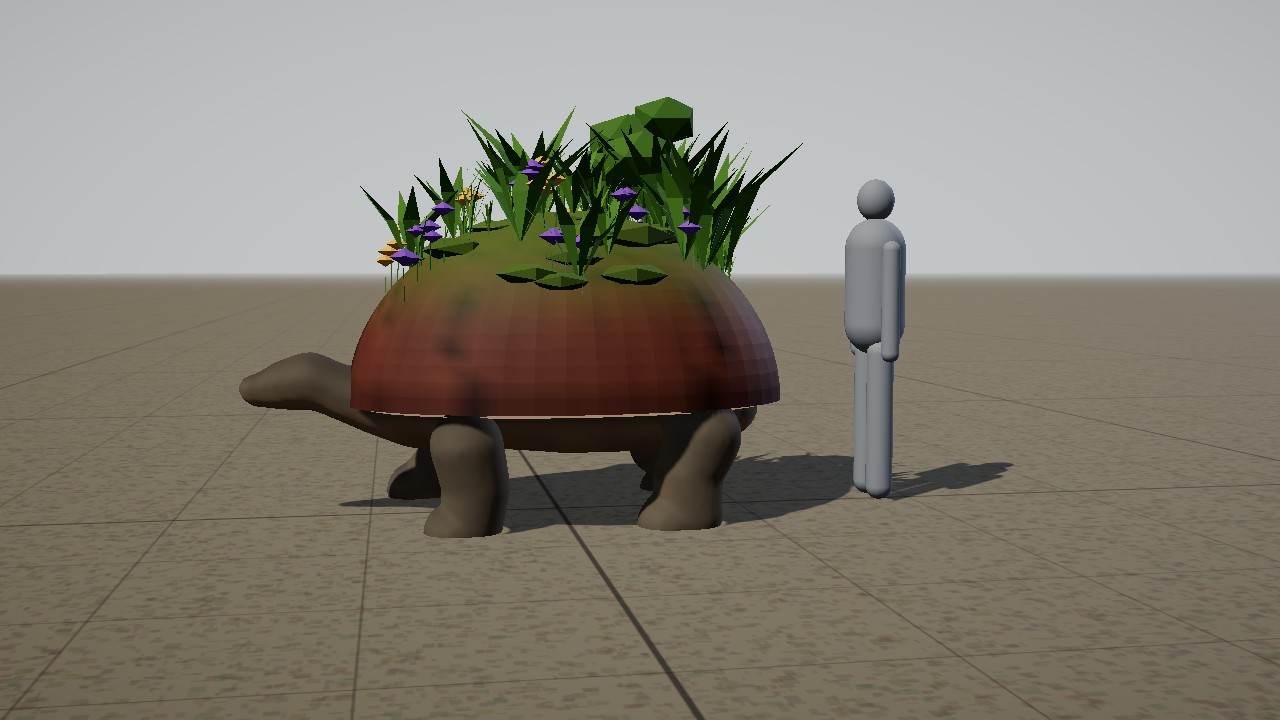
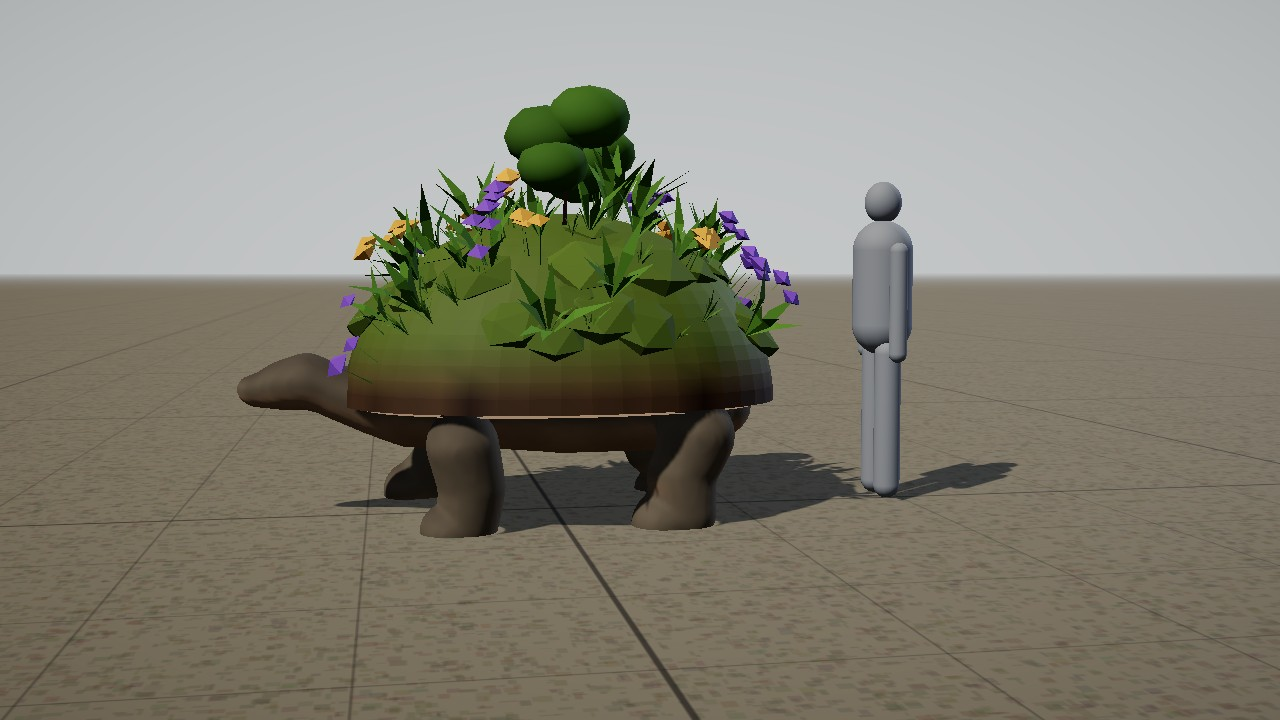
Bodies: Session 1926 — the Mossback's moss draped to the rim (the critic, 6 Nov; OG-040)
Claude-Session: https://claude.ai/code/session_019eFMMod6aV7gdqFC3L4u1c

diff --git a/docs/prototypes/levelup/creatures.js b/docs/prototypes/levelup/creatures.js
@@ -338,7 +338,8 @@ P.radial = (B, o) => { const c = V(...o.c), parent = o.parent || B.spineNames[0]
     else for (let j = 0; j < seg; j++) B.meat(names[j], pts[j], pts[j + 1], along(o.r, j / seg), along(o.r, (j + 1) / seg), { group: tag, tone: o.tone, s: o.s });
     B.radials.push({ names, a, thread: !!o.thread, k, n: o.n }); } };
 // a shell (Session 775): a rigid dome over the spine with a rim and a flat plastron. Its scutes are cells of a hexagonal
-// lattice seen from above, their seams darkened; a garden may grow on it (the Mossback), or a sail stand on it (the Sailshell)
+// lattice seen from above, their seams darkened; a garden may grow on it (the Mossback), or a sail stand on it (the Sailshell).
+// `top` tints it from `topFrom` of its height, full by `topTo` (Session 1926; .95 unless a plan names it)
 P.shell = (B, o) => { const sp = B.spineAt(o.at), c = sp.p.clone().add(V(0, o.lift || 0, o.dz || 0)), rx = o.w / 2, rz = o.len / 2, base = B.tone(o.tone || 'shell'), seam = B.tone('seam'), r = rng(B.g.seed + 9);
   const g = new THREE.SphereGeometry(1, 48, 20, 0, Math.PI * 2, 0, Math.PI / 2); g.scale(rx, o.h, rz);
   const lat = []; const s = o.scute || rx * .5; for (let i = -6; i <= 6; i++) for (let j = -6; j <= 6; j++) lat.push([(i + (j % 2 ? .5 : 0)) * s, j * s * .87]);
@@ -346,7 +347,7 @@ P.shell = (B, o) => { const sp = B.spineAt(o.at), c = sp.p.clone().add(V(0, o.li
   for (let v = 0; v < P0.count; v++) { const x = P0.getX(v), y = P0.getY(v), z = P0.getZ(v); let d1 = 1e9, d2 = 1e9, k1 = 0;
     for (let k = 0; k < lat.length; k++) { const d = Math.hypot(x - lat[k][0], z - lat[k][1]); if (d < d1) { d2 = d1; d1 = d; k1 = k; } else if (d < d2) d2 = d; }
     const edge = sstep(s * .12, 0, d2 - d1), ring = .9 + .1 * Math.cos(d1 / s * 14), C = base.clone().multiplyScalar(ring * (.88 + .24 * ((k1 * 2654435761) % 97) / 97)).lerp(seam, edge * .85);
-    if (o.top) C.lerp(B.tone(o.top), sstep(o.topFrom ?? .55, .95, y / o.h) * .9); if (y < o.h * .12) C.lerp(seam, .35); col.push(C.r, C.g, C.b); }
+    if (o.top) C.lerp(B.tone(o.top), sstep(o.topFrom ?? .55, o.topTo ?? .95, y / o.h) * .9); if (y < o.h * .12) C.lerp(seam, .35); col.push(C.r, C.g, C.b); }
   g.setAttribute('color', new THREE.Float32BufferAttribute(col, 3));
   const plast = new THREE.CircleGeometry(1, 40); plast.rotateX(Math.PI / 2); plast.scale(rx * .9, 1, rz * .92); plast.translate(0, -o.h * .02, 0); const pc = []; for (let v = 0; v < plast.attributes.position.count; v++) pc.push(...B.tone('belly').toArray()); plast.setAttribute('color', new THREE.Float32BufferAttribute(pc, 3));
   const m = new THREE.Mesh(mergeGeometries([g.toNonIndexed(), plast.toNonIndexed()]), new THREE.MeshStandardMaterial({ vertexColors: true, roughness: o.rough ?? .7, side: THREE.DoubleSide })); m.geometry.computeVertexNormals(); m.position.copy(c); B.bit(sp.bone, m);
@@ -357,17 +358,24 @@ P.shell = (B, o) => { const sp = B.spineAt(o.at), c = sp.p.clone().add(V(0, o.li
   // these keeps the old spread (.62 and .7), no mounds or grass, one flower to a spot and heads of .07
   if (o.garden) { const G = o.garden, sz = G.size, geos = [], sp1 = G.spread || .62, sp2 = G.spread || .7, cl = G.cluster || 1, bl = G.bloom || .07;
     const yAt = (x, z) => o.h * Math.sqrt(Math.max(0, 1 - (x / rx) ** 2 - (z / rz) ** 2));
-    const add = (geo, color, x, z, rot, sink = .01) => { geo.deleteAttribute('uv'); geo.rotateY(rot); geo.translate(x, yAt(x, z) - sink, z); const cc = []; for (let v = 0; v < geo.attributes.position.count; v++) cc.push(color.r, color.g, color.b); geo.setAttribute('color', new THREE.Float32BufferAttribute(cc, 3)); geos.push(geo.index ? geo.toNonIndexed() : geo); };
-    const spot = f => { const a = r() * Math.PI * 2, d = Math.sqrt(r()) * f; return [Math.cos(a) * d * rx, Math.sin(a) * d * rz]; };
+    // Session 1926 (the critic, 6 Nov: "a crest, not a garden", every plant on the top third and the flanks bare to a clean rim; OG-040
+    // drapes the moss to the rim): `drape` stands each plant on the dome's own slope, turned from straight up toward the surface's normal
+    // by that share, so a fern on the flank lies along it as moss and ferns do on a stone; `edge` (a power under .5) puts more of the
+    // spots out on the flanks, where most of the dome's area is; `low` scales the ferns' and the grass's height (the art's are low)
+    const dr = G.drape || 0, ex = G.edge || .5, lo = G.low || 1, nq = new THREE.Quaternion();
+    const add = (geo, color, x, z, rot, sink = .01) => { geo.deleteAttribute('uv'); geo.rotateY(rot);
+      if (dr) { const y = yAt(x, z), n = V(x / (rx * rx), y / (o.h * o.h), z / (rz * rz)).normalize(); nq.setFromUnitVectors(UP, UP.clone().lerp(n, dr).normalize()); geo.applyQuaternion(nq); }
+      geo.translate(x, yAt(x, z) - sink, z); const cc = []; for (let v = 0; v < geo.attributes.position.count; v++) cc.push(color.r, color.g, color.b); geo.setAttribute('color', new THREE.Float32BufferAttribute(cc, 3)); geos.push(geo.index ? geo.toNonIndexed() : geo); };
+    const spot = f => { const a = r() * Math.PI * 2, d = Math.pow(r(), ex) * f; return [Math.cos(a) * d * rx, Math.sin(a) * d * rz]; };
     const tris = pts => { const g = new THREE.BufferGeometry(); g.setAttribute('position', new THREE.Float32BufferAttribute(pts.flat(), 3)); g.computeVertexNormals(); return g; };
     // a blade leaning out by `lean`, `w` wide at two-thirds of its height: base, the two shoulders, the tip
     const blade = (h, w, lean) => { const L = [-w, h * .6, h * .3 * lean], R = [w, h * .6, h * .3 * lean], T = [0, h, h * .75 * lean]; return tris([[0, 0, 0], R, L, L, R, T]); };
-    for (let i = 0; i < (G.moss || 0); i++) { const [x, z] = spot(.82), m = sz * (.3 + .3 * r()), mg = new THREE.IcosahedronGeometry(1, 0); mg.scale(m, m * .32, m * (.8 + .4 * r())); add(mg, B.tone('moss').clone().multiplyScalar(.82 + .3 * r()), x, z, r() * 6, m * .2); }
-    for (let i = 0; i < G.ferns; i++) { const [x, z] = spot(sp1), h = sz * (.6 + .6 * r()), n = 5 + (i % 3); for (let f = 0; f < n; f++) add(blade(h * (.75 + .35 * r()), h * .09, .5 + .7 * r()), B.tone('fern').clone().multiplyScalar(.8 + .4 * r()), x, z, f / n * Math.PI * 2 + r()); }
-    for (let i = 0; i < (G.grass || 0); i++) { const [x, z] = spot(.8), h = sz * (.3 + .3 * r()); for (let f = 0; f < 7; f++) add(blade(h * (.7 + .5 * r()), h * .035, .2 + .5 * r()), B.tone('fern').clone().multiplyScalar(1.05 + .35 * r()).lerp(B.tone('moss'), .3), x, z, r() * Math.PI * 2); }
+    for (let i = 0; i < (G.moss || 0); i++) { const [x, z] = spot(dr ? .96 : .82), m = sz * (.3 + .3 * r()), mg = new THREE.IcosahedronGeometry(1, 0); mg.scale(m, m * .32, m * (.8 + .4 * r())); add(mg, B.tone('moss').clone().multiplyScalar(.82 + .3 * r()), x, z, r() * 6, m * .2); }
+    for (let i = 0; i < G.ferns; i++) { const [x, z] = spot(sp1), h = sz * lo * (.6 + .6 * r()), n = 5 + (i % 3); for (let f = 0; f < n; f++) add(blade(h * (.75 + .35 * r()), h * .09, .5 + .7 * r()), B.tone('fern').clone().multiplyScalar(.8 + .4 * r()), x, z, f / n * Math.PI * 2 + r()); }
+    for (let i = 0; i < (G.grass || 0); i++) { const [x, z] = spot(dr ? sp1 : .8), h = sz * lo * (.3 + .3 * r()); for (let f = 0; f < 7; f++) add(blade(h * (.7 + .5 * r()), h * .035, .2 + .5 * r()), B.tone('fern').clone().multiplyScalar(1.05 + .35 * r()).lerp(B.tone('moss'), .3), x, z, r() * Math.PI * 2); }
     // `shrubs` (Session 1920): a low bush of three leafy lumps on a short stem, the garden's tallest things
     for (let i = 0; i < (G.shrubs || 0); i++) { const [x, z] = spot(.45), h = sz * (.9 + .4 * r()); add(tris([[-.012, 0, 0], [.012, 0, 0], [0, h * .7, 0]]), B.tone('seam'), x, z, r() * 6);
-      for (let k = 0; k < 3; k++) { const b = sz * (.32 + .14 * r()), lg = new THREE.IcosahedronGeometry(b, 0), a = k / 3 * Math.PI * 2 + r(); lg.scale(1, .75, 1); lg.translate(Math.cos(a) * b * .6, h * (.62 + .2 * k), Math.sin(a) * b * .6); add(lg, B.tone('fern').clone().multiplyScalar(.62 + .25 * r()), x, z, 0); } }
+      for (let k = 0; k < 3; k++) { const b = sz * (.32 + .14 * r()), lg = new THREE.IcosahedronGeometry(b, dr ? 1 : 0), a = k / 3 * Math.PI * 2 + r(); lg.scale(1, .75, 1); lg.translate(Math.cos(a) * b * .6, h * (.62 + .2 * k), Math.sin(a) * b * .6); add(lg, B.tone('fern').clone().multiplyScalar(.62 + .25 * r()), x, z, 0); } }
     for (let i = 0; i < G.flowers; i++) { const [x0, z0] = spot(sp2), tone = B.tone(r() < .5 ? 'bloom' : 'bloom2');
       for (let k = 0; k < cl; k++) { const x = x0 + (k ? (r() - .5) * sz * .3 : 0), z = z0 + (k ? (r() - .5) * sz * .3 : 0), hs = sz * (.36 + .2 * r()), lean = (r() - .5) * sz * .1;
         add(tris([[-.004, 0, 0], [.004, 0, 0], [lean, hs, 0]]), B.tone('fern'), x, z, r() * 6);
@@ -1430,7 +1438,7 @@ export const PLANS = {
     ] },
   // ── Session 775: shells and feathered wings ──
   mossback: { name: 'Mossback', src: 'OG-040 (an ancient tortoise carrying a living garden)', gaits: ['walk', 'stand'], speedK: .22, wag: .02, pant: .02, fold: .4, rough: .8,
-    palette: { coat: [.42, .4, .32], saddle: [.32, .3, .24], belly: [.62, .56, .42], dark: [.06, .05, .04], shell: [.44, .31, .18], seam: [.17, .11, .06], moss: [.3, .43, .16], fern: [.26, .5, .18], bloom: [.88, .76, .3], bloom2: [.62, .36, .78] },
+    palette: { coat: [.42, .4, .32], saddle: [.32, .3, .24], belly: [.62, .56, .42], dark: [.06, .05, .04], shell: [.38, .32, .19], seam: [.17, .11, .06], moss: [.3, .43, .16], fern: [.26, .5, .18], bloom: [.88, .76, .3], bloom2: [.62, .36, .78] },
     parts: null },
   sailshell: { name: 'Sailshell', src: 'OG-040 (a desert tortoise with a sail-like shell)', gaits: ['walk', 'stand'], speedK: .25, wag: .02, pant: .02, fold: .4, rough: .7, finOpacity: 1,
     palette: { coat: [.62, .5, .36], saddle: [.48, .37, .25], belly: [.8, .7, .52], dark: [.08, .06, .04], shell: [.76, .58, .34], seam: [.34, .21, .1], sail: [.8, .3, .15], sail2: [.93, .56, .25] },
@@ -1453,7 +1461,8 @@ const tortoise = shell => [
   ['legs', { at: .95, kind: 'plantFore', out: .55, drop: .15, r: [.17, .16, .15, .15], claws: { r: .02, len: .05 } }],
   ['legs', { at: .05, kind: 'plantHind', out: .55, drop: .1, r: [.19, .17, .16, .16], claws: { r: .02, len: .05 } }],
   ['shell', shell]];
-PLANS.mossback.parts = tortoise({ at: .5, lift: .02, len: 2.3, w: 1.75, h: 1.0, top: 'moss', topFrom: .3, garden: { ferns: 34, flowers: 22, cluster: 3, bloom: .13, grass: 26, moss: 18, shrubs: 2, spread: .8, size: .5 } });
+// Session 1926: the moss runs from .04 of the dome's height (was .3) and is full by .4 (was .95), the shrubs' lumps rounder, the mounds and the plants out to the rim, laid along the slope
+PLANS.mossback.parts = tortoise({ at: .5, lift: .02, len: 2.3, w: 1.75, h: 1.0, top: 'moss', topFrom: .04, topTo: .4, garden: { ferns: 34, flowers: 22, cluster: 3, bloom: .13, grass: 30, moss: 34, shrubs: 2, spread: .94, size: .5, drape: .75, edge: .32, low: .7 } });
 PLANS.sailshell.parts = tortoise({ at: .5, lift: .02, len: 2.0, w: 1.5, h: .8, sail: { h: 1.3, len: 1.8 } });
 // a bird of the air: a perching body on bird legs, a fanned tail and feathered wings; a raven and a hawk differ in beak and colour
 const flier = o => [

diff --git a/vendor/creatures.builder.js b/vendor/creatures.builder.js
@@ -1768,7 +1768,8 @@ P.radial = (B, o) => { const c = V(...o.c), parent = o.parent || B.spineNames[0]
     else for (let j = 0; j < seg; j++) B.meat(names[j], pts[j], pts[j + 1], along(o.r, j / seg), along(o.r, (j + 1) / seg), { group: tag, tone: o.tone, s: o.s });
     B.radials.push({ names, a, thread: !!o.thread, k, n: o.n }); } };
 // a shell (Session 775): a rigid dome over the spine with a rim and a flat plastron. Its scutes are cells of a hexagonal
-// lattice seen from above, their seams darkened; a garden may grow on it (the Mossback), or a sail stand on it (the Sailshell)
+// lattice seen from above, their seams darkened; a garden may grow on it (the Mossback), or a sail stand on it (the Sailshell).
+// `top` tints it from `topFrom` of its height, full by `topTo` (Session 1926; .95 unless a plan names it)
 P.shell = (B, o) => { const sp = B.spineAt(o.at), c = sp.p.clone().add(V(0, o.lift || 0, o.dz || 0)), rx = o.w / 2, rz = o.len / 2, base = B.tone(o.tone || 'shell'), seam = B.tone('seam'), r = rng(B.g.seed + 9);
   const g = new THREE.SphereGeometry(1, 48, 20, 0, Math.PI * 2, 0, Math.PI / 2); g.scale(rx, o.h, rz);
   const lat = []; const s = o.scute || rx * .5; for (let i = -6; i <= 6; i++) for (let j = -6; j <= 6; j++) lat.push([(i + (j % 2 ? .5 : 0)) * s, j * s * .87]);
@@ -1776,7 +1777,7 @@ P.shell = (B, o) => { const sp = B.spineAt(o.at), c = sp.p.clone().add(V(0, o.li
   for (let v = 0; v < P0.count; v++) { const x = P0.getX(v), y = P0.getY(v), z = P0.getZ(v); let d1 = 1e9, d2 = 1e9, k1 = 0;
     for (let k = 0; k < lat.length; k++) { const d = Math.hypot(x - lat[k][0], z - lat[k][1]); if (d < d1) { d2 = d1; d1 = d; k1 = k; } else if (d < d2) d2 = d; }
     const edge = sstep(s * .12, 0, d2 - d1), ring = .9 + .1 * Math.cos(d1 / s * 14), C = base.clone().multiplyScalar(ring * (.88 + .24 * ((k1 * 2654435761) % 97) / 97)).lerp(seam, edge * .85);
-    if (o.top) C.lerp(B.tone(o.top), sstep(o.topFrom ?? .55, .95, y / o.h) * .9); if (y < o.h * .12) C.lerp(seam, .35); col.push(C.r, C.g, C.b); }
+    if (o.top) C.lerp(B.tone(o.top), sstep(o.topFrom ?? .55, o.topTo ?? .95, y / o.h) * .9); if (y < o.h * .12) C.lerp(seam, .35); col.push(C.r, C.g, C.b); }
   g.setAttribute('color', new THREE.Float32BufferAttribute(col, 3));
   const plast = new THREE.CircleGeometry(1, 40); plast.rotateX(Math.PI / 2); plast.scale(rx * .9, 1, rz * .92); plast.translate(0, -o.h * .02, 0); const pc = []; for (let v = 0; v < plast.attributes.position.count; v++) pc.push(...B.tone('belly').toArray()); plast.setAttribute('color', new THREE.Float32BufferAttribute(pc, 3));
   const m = new THREE.Mesh(mergeGeometries([g.toNonIndexed(), plast.toNonIndexed()]), new THREE.MeshStandardMaterial({ vertexColors: true, roughness: o.rough ?? .7, side: THREE.DoubleSide })); m.geometry.computeVertexNormals(); m.position.copy(c); B.bit(sp.bone, m);
@@ -1787,17 +1788,24 @@ P.shell = (B, o) => { const sp = B.spineAt(o.at), c = sp.p.clone().add(V(0, o.li
   // these keeps the old spread (.62 and .7), no mounds or grass, one flower to a spot and heads of .07
   if (o.garden) { const G = o.garden, sz = G.size, geos = [], sp1 = G.spread || .62, sp2 = G.spread || .7, cl = G.cluster || 1, bl = G.bloom || .07;
     const yAt = (x, z) => o.h * Math.sqrt(Math.max(0, 1 - (x / rx) ** 2 - (z / rz) ** 2));
-    const add = (geo, color, x, z, rot, sink = .01) => { geo.deleteAttribute('uv'); geo.rotateY(rot); geo.translate(x, yAt(x, z) - sink, z); const cc = []; for (let v = 0; v < geo.attributes.position.count; v++) cc.push(color.r, color.g, color.b); geo.setAttribute('color', new THREE.Float32BufferAttribute(cc, 3)); geos.push(geo.index ? geo.toNonIndexed() : geo); };
-    const spot = f => { const a = r() * Math.PI * 2, d = Math.sqrt(r()) * f; return [Math.cos(a) * d * rx, Math.sin(a) * d * rz]; };
+    // Session 1926 (the critic, 6 Nov: "a crest, not a garden", every plant on the top third and the flanks bare to a clean rim; OG-040
+    // drapes the moss to the rim): `drape` stands each plant on the dome's own slope, turned from straight up toward the surface's normal
+    // by that share, so a fern on the flank lies along it as moss and ferns do on a stone; `edge` (a power under .5) puts more of the
+    // spots out on the flanks, where most of the dome's area is; `low` scales the ferns' and the grass's height (the art's are low)
+    const dr = G.drape || 0, ex = G.edge || .5, lo = G.low || 1, nq = new THREE.Quaternion();
+    const add = (geo, color, x, z, rot, sink = .01) => { geo.deleteAttribute('uv'); geo.rotateY(rot);
+      if (dr) { const y = yAt(x, z), n = V(x / (rx * rx), y / (o.h * o.h), z / (rz * rz)).normalize(); nq.setFromUnitVectors(UP, UP.clone().lerp(n, dr).normalize()); geo.applyQuaternion(nq); }
+      geo.translate(x, yAt(x, z) - sink, z); const cc = []; for (let v = 0; v < geo.attributes.position.count; v++) cc.push(color.r, color.g, color.b); geo.setAttribute('color', new THREE.Float32BufferAttribute(cc, 3)); geos.push(geo.index ? geo.toNonIndexed() : geo); };
+    const spot = f => { const a = r() * Math.PI * 2, d = Math.pow(r(), ex) * f; return [Math.cos(a) * d * rx, Math.sin(a) * d * rz]; };
     const tris = pts => { const g = new THREE.BufferGeometry(); g.setAttribute('position', new THREE.Float32BufferAttribute(pts.flat(), 3)); g.computeVertexNormals(); return g; };
     // a blade leaning out by `lean`, `w` wide at two-thirds of its height: base, the two shoulders, the tip
     const blade = (h, w, lean) => { const L = [-w, h * .6, h * .3 * lean], R = [w, h * .6, h * .3 * lean], T = [0, h, h * .75 * lean]; return tris([[0, 0, 0], R, L, L, R, T]); };
-    for (let i = 0; i < (G.moss || 0); i++) { const [x, z] = spot(.82), m = sz * (.3 + .3 * r()), mg = new THREE.IcosahedronGeometry(1, 0); mg.scale(m, m * .32, m * (.8 + .4 * r())); add(mg, B.tone('moss').clone().multiplyScalar(.82 + .3 * r()), x, z, r() * 6, m * .2); }
-    for (let i = 0; i < G.ferns; i++) { const [x, z] = spot(sp1), h = sz * (.6 + .6 * r()), n = 5 + (i % 3); for (let f = 0; f < n; f++) add(blade(h * (.75 + .35 * r()), h * .09, .5 + .7 * r()), B.tone('fern').clone().multiplyScalar(.8 + .4 * r()), x, z, f / n * Math.PI * 2 + r()); }
-    for (let i = 0; i < (G.grass || 0); i++) { const [x, z] = spot(.8), h = sz * (.3 + .3 * r()); for (let f = 0; f < 7; f++) add(blade(h * (.7 + .5 * r()), h * .035, .2 + .5 * r()), B.tone('fern').clone().multiplyScalar(1.05 + .35 * r()).lerp(B.tone('moss'), .3), x, z, r() * Math.PI * 2); }
+    for (let i = 0; i < (G.moss || 0); i++) { const [x, z] = spot(dr ? .96 : .82), m = sz * (.3 + .3 * r()), mg = new THREE.IcosahedronGeometry(1, 0); mg.scale(m, m * .32, m * (.8 + .4 * r())); add(mg, B.tone('moss').clone().multiplyScalar(.82 + .3 * r()), x, z, r() * 6, m * .2); }
+    for (let i = 0; i < G.ferns; i++) { const [x, z] = spot(sp1), h = sz * lo * (.6 + .6 * r()), n = 5 + (i % 3); for (let f = 0; f < n; f++) add(blade(h * (.75 + .35 * r()), h * .09, .5 + .7 * r()), B.tone('fern').clone().multiplyScalar(.8 + .4 * r()), x, z, f / n * Math.PI * 2 + r()); }
+    for (let i = 0; i < (G.grass || 0); i++) { const [x, z] = spot(dr ? sp1 : .8), h = sz * lo * (.3 + .3 * r()); for (let f = 0; f < 7; f++) add(blade(h * (.7 + .5 * r()), h * .035, .2 + .5 * r()), B.tone('fern').clone().multiplyScalar(1.05 + .35 * r()).lerp(B.tone('moss'), .3), x, z, r() * Math.PI * 2); }
     // `shrubs` (Session 1920): a low bush of three leafy lumps on a short stem, the garden's tallest things
     for (let i = 0; i < (G.shrubs || 0); i++) { const [x, z] = spot(.45), h = sz * (.9 + .4 * r()); add(tris([[-.012, 0, 0], [.012, 0, 0], [0, h * .7, 0]]), B.tone('seam'), x, z, r() * 6);
-      for (let k = 0; k < 3; k++) { const b = sz * (.32 + .14 * r()), lg = new THREE.IcosahedronGeometry(b, 0), a = k / 3 * Math.PI * 2 + r(); lg.scale(1, .75, 1); lg.translate(Math.cos(a) * b * .6, h * (.62 + .2 * k), Math.sin(a) * b * .6); add(lg, B.tone('fern').clone().multiplyScalar(.62 + .25 * r()), x, z, 0); } }
+      for (let k = 0; k < 3; k++) { const b = sz * (.32 + .14 * r()), lg = new THREE.IcosahedronGeometry(b, dr ? 1 : 0), a = k / 3 * Math.PI * 2 + r(); lg.scale(1, .75, 1); lg.translate(Math.cos(a) * b * .6, h * (.62 + .2 * k), Math.sin(a) * b * .6); add(lg, B.tone('fern').clone().multiplyScalar(.62 + .25 * r()), x, z, 0); } }
     for (let i = 0; i < G.flowers; i++) { const [x0, z0] = spot(sp2), tone = B.tone(r() < .5 ? 'bloom' : 'bloom2');
       for (let k = 0; k < cl; k++) { const x = x0 + (k ? (r() - .5) * sz * .3 : 0), z = z0 + (k ? (r() - .5) * sz * .3 : 0), hs = sz * (.36 + .2 * r()), lean = (r() - .5) * sz * .1;
         add(tris([[-.004, 0, 0], [.004, 0, 0], [lean, hs, 0]]), B.tone('fern'), x, z, r() * 6);
@@ -2860,7 +2868,7 @@ const PLANS = {
     ] },
   // ── Session 775: shells and feathered wings ──
   mossback: { name: 'Mossback', src: 'OG-040 (an ancient tortoise carrying a living garden)', gaits: ['walk', 'stand'], speedK: .22, wag: .02, pant: .02, fold: .4, rough: .8,
-    palette: { coat: [.42, .4, .32], saddle: [.32, .3, .24], belly: [.62, .56, .42], dark: [.06, .05, .04], shell: [.44, .31, .18], seam: [.17, .11, .06], moss: [.3, .43, .16], fern: [.26, .5, .18], bloom: [.88, .76, .3], bloom2: [.62, .36, .78] },
+    palette: { coat: [.42, .4, .32], saddle: [.32, .3, .24], belly: [.62, .56, .42], dark: [.06, .05, .04], shell: [.38, .32, .19], seam: [.17, .11, .06], moss: [.3, .43, .16], fern: [.26, .5, .18], bloom: [.88, .76, .3], bloom2: [.62, .36, .78] },
     parts: null },
   sailshell: { name: 'Sailshell', src: 'OG-040 (a desert tortoise with a sail-like shell)', gaits: ['walk', 'stand'], speedK: .25, wag: .02, pant: .02, fold: .4, rough: .7, finOpacity: 1,
     palette: { coat: [.62, .5, .36], saddle: [.48, .37, .25], belly: [.8, .7, .52], dark: [.08, .06, .04], shell: [.76, .58, .34], seam: [.34, .21, .1], sail: [.8, .3, .15], sail2: [.93, .56, .25] },
@@ -2883,7 +2891,8 @@ const tortoise = shell => [
   ['legs', { at: .95, kind: 'plantFore', out: .55, drop: .15, r: [.17, .16, .15, .15], claws: { r: .02, len: .05 } }],
   ['legs', { at: .05, kind: 'plantHind', out: .55, drop: .1, r: [.19, .17, .16, .16], claws: { r: .02, len: .05 } }],
   ['shell', shell]];
-PLANS.mossback.parts = tortoise({ at: .5, lift: .02, len: 2.3, w: 1.75, h: 1.0, top: 'moss', topFrom: .3, garden: { ferns: 34, flowers: 22, cluster: 3, bloom: .13, grass: 26, moss: 18, shrubs: 2, spread: .8, size: .5 } });
+// Session 1926: the moss runs from .04 of the dome's height (was .3) and is full by .4 (was .95), the shrubs' lumps rounder, the mounds and the plants out to the rim, laid along the slope
+PLANS.mossback.parts = tortoise({ at: .5, lift: .02, len: 2.3, w: 1.75, h: 1.0, top: 'moss', topFrom: .04, topTo: .4, garden: { ferns: 34, flowers: 22, cluster: 3, bloom: .13, grass: 30, moss: 34, shrubs: 2, spread: .94, size: .5, drape: .75, edge: .32, low: .7 } });
 PLANS.sailshell.parts = tortoise({ at: .5, lift: .02, len: 2.0, w: 1.5, h: .8, sail: { h: 1.3, len: 1.8 } });
 // a bird of the air: a perching body on bird legs, a fanned tail and feathered wings; a raven and a hawk differ in beak and colour
 const flier = o => [

diff --git a/docs/devlog/1926.md b/docs/devlog/1926.md
@@ -1,0 +1,41 @@
+## v80 — Session 1926 — the Mossback's moss, down to the rim (L3; OG-040; the critic's 6 Nov run)
+Session 1920 thickened the Mossback's garden and asked whether it read as a garden or as a hedge. The critic's run of 6 Nov answered
+"a hedge on a shell": every plant stood on the top third, the blades long and upright, the shrubs faceted lumps, and the flanks bare and
+red-brown down to a clean rim. In OG-040 the moss drapes the whole shell to the rim, the ferns are low, and the outline is a mound with
+growth on it. The critic's remedy was cover down the flanks, lying flatter, and the art's green-brown. Turning the counts down, Session
+1920's own fallback, "would not fix it". So the garden is laid differently, not cut.
+
+**What changed** (`docs/prototypes/levelup/creatures.js`, the shell and its garden; `vendor/creatures.builder.js` rebuilt).
+- The shell's `top` tint takes a `topTo`, where it is full. It was fixed at .95 of the dome's height.
+  - The Mossback's moss now runs from .04 to full at .4, against .3 to .95 before.
+  - Its shell tone is greener, [.38,.32,.19] against [.44,.31,.18].
+  - The rim's dark seam stays.
+- New garden options:
+  - `drape` stands each plant on the dome's own slope. A plant is turned from straight up toward the surface's normal by that share
+    (.75 here), so a fern on the flank lies along it.
+  - `edge` (a power on the spots' distance, .32 here, was a square root's .5) puts more of the spots out on the flanks, where most of
+    the dome's area is.
+  - `low` scales the ferns' and the grass's height (.7).
+- With `drape`, the moss mounds go out to .96 of the radius (were .82), the grass to the ferns' spread, and the shrubs' lumps are
+  once-subdivided icosahedra, not raw twenty-sided ones.
+- The Mossback's plan:
+  - spread .94 (was .8);
+  - moss mounds 34 (were 18);
+  - grass tufts 30 (were 26);
+  - ferns, flowers and shrubs as before.
+- A garden that names none of the new options builds as before: the Maw Turtle's spots and shapes are unchanged.
+
+### Verified (headless Chromium)
+- The kit's `creatures.check.mjs --plans=mossback,mawturtle` passed everything. The Maw Turtle has 26,340 tris, unchanged.
+- `f4animals` 1/1 with no retry. The Mossback's hide is unchanged at 8,648 tris, under the suite's cap of 9,000.
+- The game's near body, hide and bits together, is 14,402 visible tris. It was 13,278 after Session 1920.
+- `creatures_bundle.py` rebuilt the bundle.
+- Pictures:
+  - `docs/prototypes/levelup/creatures-mossback.jpg`, the kit's, beside the 1.8 m post.
+  - `docs/prototypes/f4/f4-mossback-garden.jpg`, retaken in the game at noon from 4 m at eye height, on a green near the start.
+
+### Needs eyes
+- Whether it now reads as OG-040's mound. Underneath, a band of brown shell shows above the rim's seam (the lowest .04–.15 of the dome),
+  which the art does not have.
+- The ferns on the flanks lie along the slope at .75. From straight above they read as moss. From the side, a few on the far flank
+  stand out past the outline.
